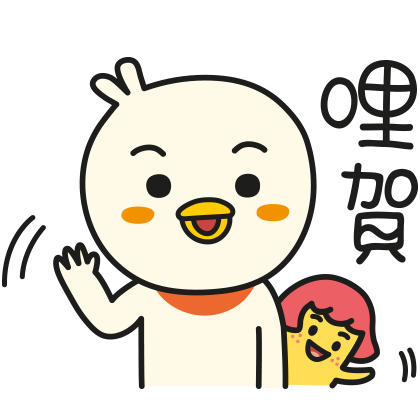
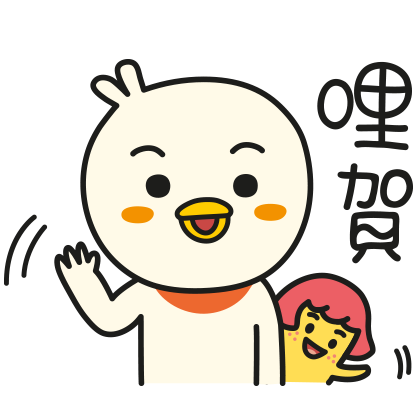
[feature] 대만용 스티커 수정 (JND-4055) * 이미지 로드 방식 변경 * 스티커 이미지 변경  * 스티커 이미지 미리보기 UI 수정

diff --git a/app/src/main/java/com/tosslab/jandi/app/ui/sticker/StickerManager.java b/app/src/main/java/com/tosslab/jandi/app/ui/sticker/StickerManager.java
@@ -88,11 +88,14 @@ public class StickerManager {
             Context context = JandiApplication.getContext();
             DrawableTypeRequest<Uri> glideRequestor = Glide.with(context)
                     .load(uri);
+
+            final ImageView.ScaleType scaleType = options.scaleType;
             glideRequestor.asBitmap()
-                    .fitCenter()
                     .into(new BitmapImageViewTarget(view) {
                         @Override
                         public void onResourceReady(Bitmap resource, GlideAnimation<? super Bitmap> glideAnimation) {
+
+                            view.setScaleType(scaleType);
 
                             if (options.isClickImage) {
                                 StateListDrawable stateListDrawable = new StateListDrawable();
